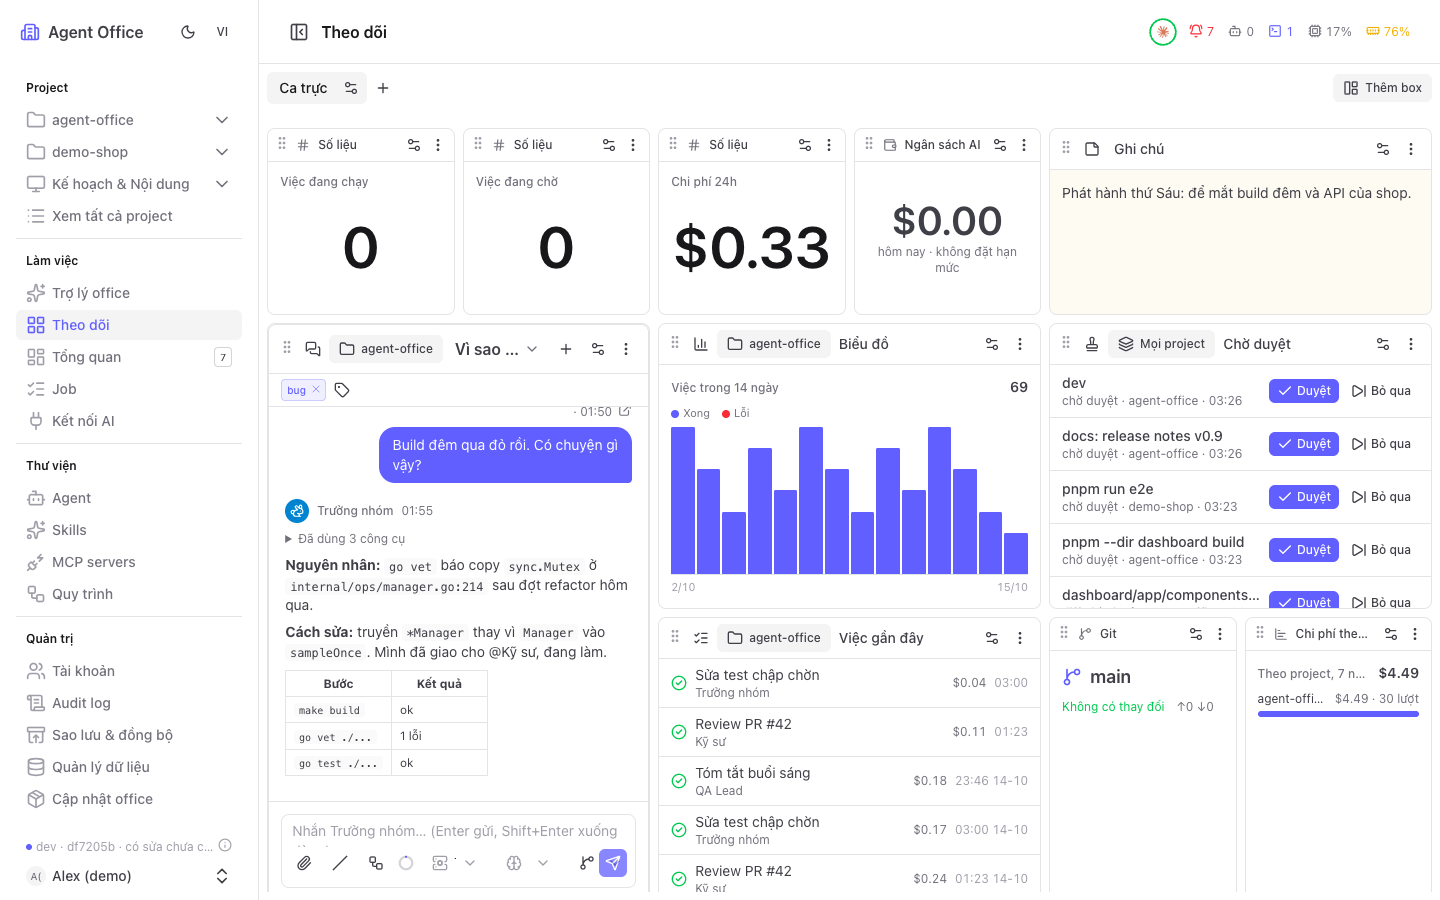
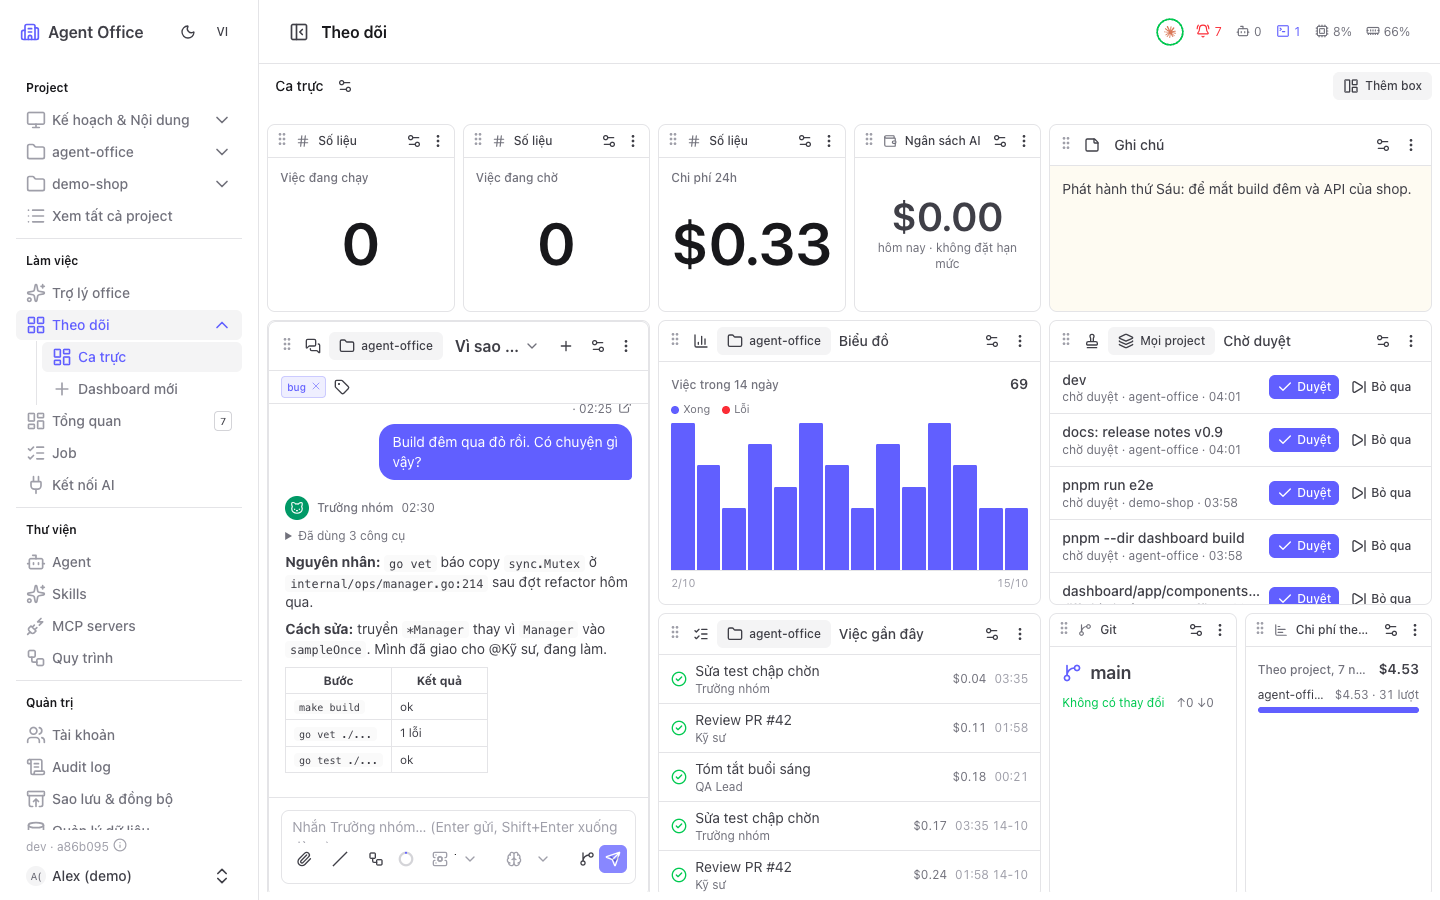
feat(watch): dashboard vào submenu Theo dõi ở sidebar, tối đa 5

diff --git a/dashboard/app/components/watch/Tabs.vue b/dashboard/app/components/watch/Tabs.vue
@@ -1,14 +1,14 @@
 <script setup lang="ts">
-// The dashboards as tabs (like Graylog's pages): pick one, ⚙ on the open one,
-// + for a new one; on the right, a box of any widget added to the open board.
+// The open dashboard's name and its ⚙ (the list and + live under "Theo dõi" in
+// the sidebar); on the right, a box of any widget added to the open board.
 import type { WidgetKind } from '~/utils/watchWidgets'
 
 defineProps<{ projects: Project[] }>()
 const { t } = useLang()
 const { isAdmin } = useAuth()
-const { boards, board, selectBoard, addBoard, add } = useWatchLayout()
+const { boards, board, add } = useWatchLayout()
 const settingsOpen = ref(false)
-const boardName = (i: number) => boards.value[i]?.name || t('watchW.board.default', { n: i + 1 })
+const index = computed(() => Math.max(0, boards.value.findIndex(b => b.id === board.value?.id)))
 
 // grouped by size, a title over each group
 const addMenu = computed(() => (['sm', 'md', 'lg'] as const).map(size => [
@@ -25,19 +25,12 @@ const addBox = (k: WidgetKind) => add(board.value?.projectId ?? '', undefined, k
 
 <template>
   <div class="flex min-w-0 items-center gap-1">
-    <div class="flex min-w-0 flex-1 items-center gap-0.5 overflow-x-auto" role="tablist">
-      <div
-        v-for="(b, i) in boards" :key="b.id" role="tab" :aria-selected="b.id === board?.id"
-        class="flex shrink-0 items-center rounded-md transition"
-        :class="b.id === board?.id ? 'bg-(--ui-bg-elevated) text-(--ui-text-highlighted)' : 'text-(--ui-text-muted) hover:bg-(--ui-bg-elevated)/50'"
-      >
-        <button type="button" class="max-w-48 truncate px-3 py-1.5 text-sm font-medium" @click="selectBoard(b.id)">{{ boardName(i) }}</button>
-        <UPopover v-if="b.id === board?.id" v-model:open="settingsOpen" :content="{ align: 'start' }">
-          <UButton size="xs" color="neutral" variant="ghost" icon="i-lucide-settings-2" class="me-1" :aria-label="t('watchW.board.settings')" :title="t('watchW.board.settings')" />
-          <template #content><WatchBoardSettings :board="b" :index="i" :projects="projects" @done="settingsOpen = false" /></template>
-        </UPopover>
-      </div>
-      <UButton size="sm" color="neutral" variant="ghost" icon="i-lucide-plus" :aria-label="t('watchW.board.add')" :title="t('watchW.board.add')" @click="addBoard" />
+    <div v-if="board" class="flex min-w-0 flex-1 items-center gap-0.5">
+      <span class="truncate px-2 text-sm font-medium text-(--ui-text-highlighted)">{{ board.name || t('watchW.board.default', { n: index + 1 }) }}</span>
+      <UPopover v-model:open="settingsOpen" :content="{ align: 'start' }">
+        <UButton size="xs" color="neutral" variant="ghost" icon="i-lucide-settings-2" :aria-label="t('watchW.board.settings')" :title="t('watchW.board.settings')" />
+        <template #content><WatchBoardSettings :board="board" :index="index" :projects="projects" @done="settingsOpen = false" /></template>
+      </UPopover>
     </div>
     <UDropdownMenu :items="addMenu" :content="{ align: 'end' }" :ui="{ content: 'w-52 max-h-[70vh]' }">
       <UButton size="sm" color="neutral" variant="soft" icon="i-lucide-layout-panel-left" :label="t('watchW.addBox')" class="shrink-0" />

diff --git a/dashboard/app/layouts/default.vue b/dashboard/app/layouts/default.vue
@@ -52,6 +52,9 @@ onMounted(() => {
   watch(() => route.params.id as string | undefined, (id) => {
     if (id && !navOpen.value.includes(`project-${id}`)) navOpen.value = [...navOpen.value, `project-${id}`]
   }, { immediate: true })
+  watch(() => route.path === '/watch', (on) => {
+    if (on && !navOpen.value.includes('watch')) navOpen.value = [...navOpen.value, 'watch']
+  }, { immediate: true })
   watch(navOpen, (v) => {
     try {
       localStorage.setItem(OPEN_KEY, JSON.stringify(v))
@@ -106,13 +109,28 @@ let incTimer: ReturnType<typeof setInterval> | undefined
 onMounted(() => { incTimer = setInterval(() => refreshInc(), 60000) })
 onBeforeUnmount(() => clearInterval(incTimer))
 
+// the watch dashboards sit under "Theo dõi" (at most 5, ADR-159), + for a new one
+const watchLayout = useWatchLayout()
+const boardLabel = (b: { name: string }, i: number) => b.name || t('watchW.board.default', { n: i + 1 })
+const watchBoards = computed<NavigationMenuItem[]>(() => [
+  ...watchLayout.boards.value.map((b, i) => ({
+    label: boardLabel(b, i),
+    icon: 'i-lucide-layout-dashboard',
+    active: route.path === '/watch' && b.id === watchLayout.board.value?.id,
+    onSelect: () => { watchLayout.selectBoard(b.id); navigateTo('/watch') }
+  })),
+  ...(watchLayout.canAddBoard.value
+    ? [{ label: t('watchW.board.add'), icon: 'i-lucide-plus', onSelect: () => { watchLayout.addBoard(); navigateTo('/watch') } }]
+    : [])
+])
+
 const items = computed<NavigationMenuItem[][]>(() => {
   // office-wide pages: the day's work, then how office is set up
   const office: NavigationMenuItem[] = [
     { label: t('nav.work'), type: 'label' },
     // one place to follow the office: what needs a person is counted here
     { label: t('assistant.title'), icon: 'i-lucide-sparkles', to: '/assistant' },
-    { label: t('watch.title'), icon: 'i-lucide-layout-grid', to: '/watch' },
+    { value: 'watch', label: t('watch.title'), icon: 'i-lucide-layout-grid', to: '/watch', children: watchBoards.value },
     { label: t('nav.overview'), icon: 'i-lucide-layout-dashboard', to: '/', badge: attention.value || undefined },
     { label: t('nav.jobs'), icon: 'i-lucide-list-checks', to: '/jobs' },
     { label: t('nav.providers'), icon: 'i-lucide-plug', to: '/providers' }

diff --git a/dashboard/app/composables/useWatchLayout.ts b/dashboard/app/composables/useWatchLayout.ts
@@ -15,6 +15,7 @@ interface OldPane { kind: 'pane', widget?: WidgetKind, projectId: string, conver
 type OldNode = OldPane | { kind: 'split', children: OldNode[] }
 
 const KEY = 'office.watch.boards'
+export const MAX_BOARDS = 5
 const OLD_KEY = 'office.watch.layout' // one board, before dashboards
 const newId = () => Math.random().toString(36).slice(2, 10)
 const blank = (items: WatchItem[] = []): WatchBoard => ({ id: newId(), name: '', items, refresh: 30, projectId: '' })
@@ -125,14 +126,17 @@ export function useWatchLayout() {
   }
 
   // ---- dashboards ----
+  // listed under "Theo dõi" in the sidebar: a short list, so at most 5
+  const canAddBoard = computed(() => boards.value.length < MAX_BOARDS)
   function addBoard() {
+    if (!canAddBoard.value) return
     const b = blank()
     boards.value.push(b)
     activeId.value = b.id
   }
   function duplicateBoard(id: string) {
     const src = boards.value.find(b => b.id === id)
-    if (!src) return
+    if (!src || !canAddBoard.value) return
     const copy: WatchBoard = { ...JSON.parse(JSON.stringify(src)) as WatchBoard, id: newId(), name: src.name ? `${src.name} (2)` : '' }
     copy.items.forEach((i) => { i.id = newId() })
     boards.value.splice(boards.value.indexOf(src) + 1, 0, copy)
@@ -150,10 +154,10 @@ export function useWatchLayout() {
     if (b) Object.assign(b, patch)
   }
   function selectBoard(id: string) {
-    activeId.value = id
+    if (boards.value.some(b => b.id === id)) activeId.value = id
   }
 
   const count = computed(() => items.value.length)
 
-  return { boards, board, activeId, items, count, add, close, duplicate, setPane, setConfig, setSize, setLayout, clear, addBoard, duplicateBoard, removeBoard, updateBoard, selectBoard }
+  return { boards, board, activeId, items, count, canAddBoard, add, close, duplicate, setPane, setConfig, setSize, setLayout, clear, addBoard, duplicateBoard, removeBoard, updateBoard, selectBoard }
 }

diff --git a/dashboard/app/components/watch/BoardSettings.vue b/dashboard/app/components/watch/BoardSettings.vue
@@ -6,7 +6,7 @@ import type { WatchBoard } from '~/composables/useWatchLayout'
 const props = defineProps<{ board: WatchBoard, index: number, projects: Project[] }>()
 const emit = defineEmits<{ done: [] }>()
 const { t } = useLang()
-const { updateBoard, duplicateBoard, removeBoard, boards } = useWatchLayout()
+const { updateBoard, duplicateBoard, removeBoard, boards, canAddBoard } = useWatchLayout()
 const NONE = '__none'
 const refreshItems = computed(() => [0, 15, 30, 60, 300].map(s => ({ value: s, label: s ? t('watchW.board.every', { s: s < 60 ? `${s}s` : `${s / 60}m` }) : t('watchW.board.onChange') })))
 const projectItems = computed(() => [{ value: NONE, label: t('watchW.board.noProject') }, ...props.projects.map(p => ({ value: p.id, label: p.name }))])
@@ -29,7 +29,7 @@ function remove() {
       <USelect :model-value="board.projectId || NONE" :items="projectItems" class="w-full" @update:model-value="(v) => updateBoard(board.id, { projectId: v === NONE ? '' : String(v) })" />
     </UFormField>
     <div class="flex gap-2 border-t border-(--ui-border) pt-3">
-      <UButton size="sm" color="neutral" variant="soft" icon="i-lucide-copy" :label="t('watchW.board.duplicate')" @click="duplicateBoard(board.id); emit('done')" />
+      <UButton size="sm" color="neutral" variant="soft" icon="i-lucide-copy" :label="t('watchW.board.duplicate')" :disabled="!canAddBoard" @click="duplicateBoard(board.id); emit('done')" />
       <UButton size="sm" color="error" variant="ghost" icon="i-lucide-trash-2" :label="t('common.delete')" :disabled="boards.length < 2 && !board.items.length" class="ms-auto" @click="remove" />
     </div>
   </div>
